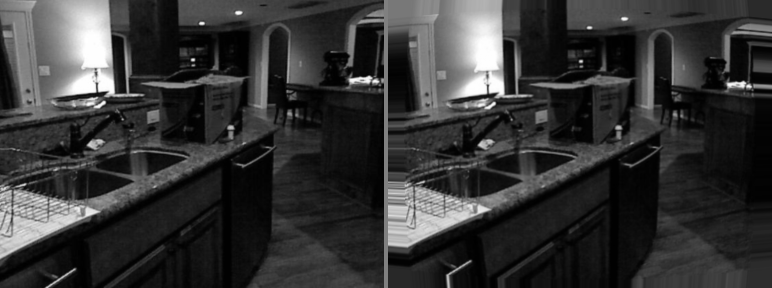
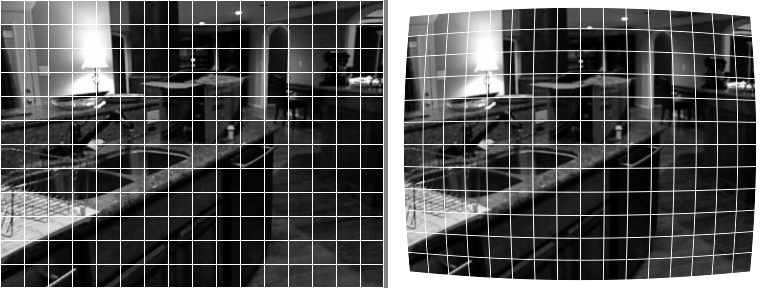
README: restructure into symmetric kernel sections + PYNQ-Z2 perf
Major rewrite to match the project's current state after the
PYNQ-Z2 retarget and rectify real-data verification work:

- Flatten the heading hierarchy into two symmetric H2 sections
  (## resize_kernel / ## rectify_kernel), each with the same eight
  H3 subsections: python golden model / files / interface /
  coordinate & math / schedule / testbench / build / run /
  verification & synthesis. Remove the standalone resize-only golden
  subsection under codebase overview and the nested "### hls hardware
  implementation" wrapper inside rectify.

- Refresh every xczu7ev / 5 ns / 200 MHz reference to
  xc7z020clg400-1 / 10 ns / 100 MHz with the real csynth numbers
  from the latest run: resize 2/37/4,852/8,699 (~0/16/4/16 %),
  slack -0.70 ns; rectify 12/13/7,508/9,623 (4/5/7/18 %), slack
  0.00 ns. Retain a historical-comparison sentence for the xczu7ev
  baseline so the percentage jump (1-2 % -> 16-18 %) is explained
  by the smaller part, not a design regression.

- Add inline frame-latency tables for both kernels at 1080p / 720p
  / 640x480 / 384x288 plus an end-to-end resize -> DDR -> rectify
  composite table. A one-liner at the top of the README summarises
  the headline numbers (55 fps @ 640x480, 8 fps @ 1080p).

- Add a "Reading the table" interpretation note for the resize
  resource table (compute-bound streaming float32 fingerprint) and
  a one-paragraph contrast note for the rectify table (BRAM up /
  DSP down because II=4 time-shares multipliers).
[…]

diff --git a/sw/prepare_real_rectify_data.py b/sw/prepare_real_rectify_data.py
@@ -101,6 +101,18 @@ def make_pair_png(in_img: np.ndarray, out_img: np.ndarray, path: Path) -> None:
     Image.fromarray(canvas, mode="L").save(path)
 
 
+def overlay_grid(img: np.ndarray, spacing: int = 24, value: int = 255) -> np.ndarray:
+    """Paint a thin regular grid onto a uint8 grayscale image (non-destructive)."""
+    out = img.copy()
+    for x in range(0, out.shape[1], spacing):
+        out[:, x] = value
+    out[:, out.shape[1] - 1] = value
+    for y in range(0, out.shape[0], spacing):
+        out[y, :] = value
+    out[out.shape[0] - 1, :] = value
+    return out
+
+
 def verify_loop_equals_vectorized(in_img, map_x, map_y, out_vec, name):
     """Sanity: rectify() loop and rectify_vectorized() agree byte-for-byte.
 
@@ -162,7 +174,15 @@ def main() -> None:
         out_img.tofile(gold_bin)
 
         pair_png = VIS_DIR / f"{name}_pair.png"
-        make_pair_png(in_img, out_img, pair_png)
+        if kind == "barrel":
+            # Overlay a regular grid on the input and re-run the same map so the
+            # output's bent grid lines make the radial distortion + edge clamp
+            # immediately obvious. .bin fixtures above stay un-gridded.
+            in_viz = overlay_grid(in_img, spacing=24, value=255)
+            out_viz = rectify_vectorized(in_viz, map_x, map_y)
+            make_pair_png(in_viz, out_viz, pair_png)
+        else:
+            make_pair_png(in_img, out_img, pair_png)
 
         manifest_lines.append(f"{name} {in_h} {in_w} {out_h} {out_w}")
         print(

diff --git a/README.md b/README.md
@@ -1,26 +1,48 @@
 # Real-Time ROS 2 Camera Preprocessing Accelerator
 
-Two Vitis HLS image-processing kernels for the AMD ROS 2 Perception Node pipeline: bilinear `resize_kernel` and map-based `rectify_kernel`. Architecture and motivation are in [plan.md](apply_hardware_design_project/plan.md); this README is the build / test / verification reference for both stages.
+This project include two Vitis HLS image-processing kernels for the AMD ROS 2 Perception Node pipeline: bilinear `resize_kernel` and map-based `rectify_kernel`. The motivation is to **offload simple but heavy image processing computation from PS to IP**, thus allow PS to perform real-time downstream perception tasks such as object detection, SLAM, and visual odometry without being bottlenecked by per-pixel preprocessing.
 
-## verification at a glance
+The overall architechture is shown in below figure, demostrating the process for our project
+1. Initialization: 
+    - Step 1: PS compute mapping for `rectify_kernel`, write to memory using AXI-Full
+    - Step 2: PS assign IPs register
+2. Process Loop: after initialize the system, IPs do following loop iteratively
+    - Step 3:  `resize_kernel` read raw data from camera using AXI-Stream and process them
+    - Step 4:  `resize_kernel` us AXI-Stream, write the processed image to DMA IP 
+    - Step 5: DMA write the data to DDR using AXI-Full
+    - Step 6: `rectify_kernel` read/process/write the image using AXI-Full
 
-All results from Vitis HLS 2023.2, target part `xczu7ev-ffvc1156-2-e` (Zynq UltraScale+ ZCU104-class) at a 5 ns clock target.
+![](.asserts/image.png)
 
-| stage | python tests | hls csim | csynth | hls cosim | resources (BRAM / DSP / FF / LUT) |
-|---|---|---|---|---|---|
-| `resize_kernel`  | 5/5 PASS | 5/5 PASS | done; slack `−0.00 ns` (marginal) | 10/10 PASS (5 synthetic + 5 NYU real-data) | 2 / 37 / 5,206 / 6,406 |
-| `rectify_kernel` | 4/4 PASS | 5/5 PASS | done; slack `0.00 ns` (clean)    | 5/5 PASS                                   | 12 / 13 / 7,542 / 8,903 |
+Our IP processed result is shown in this 2 examples
 
-Per-case verification tables, schedule analysis, and resource percentages of the target part are in the respective sections below. Raw HLS reports live under `hls/{resize,rectify}_hls/sol1/syn/report/` and `…/sim/report/`; the build trees are intentionally excluded from version control via `.gitignore` (`hls/*_hls/`) — the tables in this README are the canonical summary.
+Example — `nyu_upscale_640x480` (384×288 input on the left, 640×480 bilinear-upscaled output on the right):
 
-The resize top-module slack of `−0.00 ns` is HLS flagging a sub-rounding timing violation on the `EMIT_PIXEL` pipeline at the 5 ns target. The kernel synthesizes and co-simulates correctly; closing timing in Vivado place-and-route may require a slightly relaxed clock or LUT-area trade. The rectify kernel meets the same 5 ns target with no warning.
+![nyu_upscale_640x480 input | output](sw/vis/nyu_upscale_640x480_pair.png)
 
-## python environment
+Example — `nyu_rectify_barrel_mild` 
+
+![nyu_rectify_barrel_mild input | output (grid overlay)](sw/vis/nyu_rectify_barrel_mild_pair.png)
+
+On PYNQ-Z2 (`xc7z020` @ 100 MHz) the baseline runs at **≈55 fps for 640×480** (resize 6.1 ms + rectify 12.3 ms ≈ 18 ms / frame) and **≈8 fps for 1080p** (41.5 ms + 82.9 ms); per-resolution latency tables live under each kernel's verification & synthesis section below.
+
+## Codebase overview
+
+```shell
+tree -L 1
+.
+├── hls                          # Vitis HLS C++ kernels, testbenches, build scripts
+├── plan.md                      # architecture, motivation, and optimization roadmap
+├── README.md                    # this file (build / test / verification reference)
+├── requirements.txt             # Python dependencies (numpy, Pillow)
+└── sw                           # Python golden model + unit tests + fixture generators
+```
+
+### environments and dataset
 
 The Python side (golden model + real-data fixture generation) only needs `numpy` and `Pillow`, pinned in [apply_hardware_design_project/requirements.txt](apply_hardware_design_project/requirements.txt). Any Python ≥ 3.9 works; tested on 3.10.
 
-**Option A — venv + pip** (no conda needed):
-
+To install the environments: 
 ```
 python3 -m venv .venv
 source .venv/bin/activate            # bash/zsh
@@ -28,26 +50,16 @@ source .venv/bin/activate            # bash/zsh
 pip install -r apply_hardware_design_project/requirements.txt
 ```
 
-**Option B — conda / micromamba**:
-
-```
-micromamba create -n resize python=3.10 numpy pillow
-micromamba activate resize
-```
-
 After activation, all `python …` commands in this README use that interpreter.
 
-OpenCV is optional — [sw/test_resize.py](apply_hardware_design_project/sw/test_resize.py) skips the cv2 cross-check when it's not importable. Enable it by uncommenting the `opencv-python` line in `requirements.txt` (or `pip install opencv-python`).
+We use [nyu_depth_v2](https://cs.nyu.edu/~fergus/datasets/nyu_depth_v2.html) as test data — the 384×288 preprocessed RGB derivative of the NYU V2 labeled split (795 train / 654 test images), stored under [apply_hardware_design_project/archive/data/nyu_real/](apply_hardware_design_project/archive/data/nyu_real/).
 
-## dataset
+### data preprocessing and testcase build
 
-Real-image tests reuse the NYU indoor-scene PNGs already on disk under [apply_hardware_design_project/archive/data/nyu_real/](apply_hardware_design_project/archive/data/nyu_real/) — no download needed:
 
-- `train/images/` — 795 PNGs, **384×288 RGB** (primary source for the HLS resize testbench)
-- `test/images/` — 654 PNGs, 384×288 RGB
-- `train/masks_3class/`, `test/masks_3class/` — segmentation masks (unused by the resize work)
+Both kernels feed their HLS C-testbenches the same way: NYU PNG → `PIL.Image.convert("L")` 8-bit grayscale → headerless `.bin` files (one byte per pixel, row-major, no header). For each dataset, we use bit level assertation and visualization([apply_hardware_design_project/sw/vis/](apply_hardware_design_project/sw/vis/) to check it's correctness.
 
-For the resize stage we convert RGB → 8-bit grayscale with `PIL.Image.convert("L")` and feed the raw uint8 bytes into the HLS C-testbench via headerless `.bin` files. Five fixed cases are generated and checked bit-exactly against the Python golden:
+**Resize fixtures.** Five fixed cases generated by [sw/prepare_real_data.py](apply_hardware_design_project/sw/prepare_real_data.py), checked bit-exactly against the Python golden `resize_vectorized`:
 
 | case | input | output | coverage |
 |---|---|---|---|
@@ -57,35 +69,44 @@ For the resize stage we convert RGB → 8-bit grayscale with `PIL.Image.convert(
 | `nyu_identity`          | 384×288 | 384×288 | no-op smoke test |
 | `nyu_square_96`         | 384×288 | 96×96   | both axes stretched |
 
-Paired side-by-side visualizations land under [apply_hardware_design_project/sw/vis/](apply_hardware_design_project/sw/vis/) for eyeball checks (border artifacts, obvious aliasing).
+Per-case files: `<case>_in.bin` (input grayscale bytes), `<case>_gold.bin` (Python golden output), plus a line in `cases.txt` that the testbench reads to drive the run. Pair PNGs land in `sw/vis/<case>_pair.png` (input | output, eyeball check for border artifacts and aliasing).
 
 
-## python golden model
 
-[apply_hardware_design_project/sw/resize.py](apply_hardware_design_project/sw/resize.py) is the reference resize with bilinear interpolation. It follows the `u = sₓ·x, v = sᵧ·y` formulation in [apply_hardware_design_project/plan.md](apply_hardware_design_project/plan.md) (no half-pixel centering), and every arithmetic step runs in **float32** so the model is bit-exact against the HLS kernel and its C-sim testbench.
+**Rectify fixtures.** Five real-image cases generated by [sw/prepare_real_rectify_data.py](apply_hardware_design_project/sw/prepare_real_rectify_data.py), each with its own remap table, checked bit-exactly against `rectify_vectorized`:
 
-Three entry points:
+| case | input | output | map | coverage |
+|---|---|---|---|---|
+| `nyu_rectify_identity`     | 384×288 | 384×288 | `(x, y)`                                  | rectify ≡ copy (smoke) |
+| `nyu_rectify_shift_frac`   | 384×288 | 384×288 | `(x+0.25, y+0.50)`                        | fractional shift / bilinear interp |
+| `nyu_rectify_crop_192x144` | 384×288 | 192×144 | `(x+96, y+72)`                            | integer-offset sub-window |
+| `nyu_rectify_zoom_2x`      | 384×288 | 384×288 | half-pixel-per-output centre-zoom         | non-trivial scale map |
+| `nyu_rectify_barrel_mild`  | 384×288 | 384×288 | `c + (1 + k·r²)·(x − c)`, `k = 0.10`      | radial distortion + edge clamp |
+
+Per-case files: `<case>_in.bin` (uint8 input), `<case>_map_x.bin` + `<case>_map_y.bin` (float32 remap tables, row-major), `<case>_gold.bin` (uint8 output), plus a line in `rectify_cases.txt`. The barrel case is the canonical "lens-distortion correction" use-case for a robotics rectify pipeline; pair PNGs in `sw/vis/nyu_rectify_*_pair.png` show the warped output against the original frame.
+
+
+
+> **Cosim caveat (rectify only):** the real-data tier runs in C-sim only. Vitis HLS's `m_axi` pointer wrapper segfaults on the 384×288 buffers during C/RTL co-simulation, so `run_rectify_hls.tcl` sets `RECTIFY_TB_SKIP_REAL_DATA=1` before `cosim_design` and the cosim phase runs the 5 synthetic cases only. C-sim already validates Python-golden ↔ HLS-top-level math bit-exact across the 5 NYU cases; cosim's job is RTL ↔ C equivalence, which the synthetic cases cover.
+
+
+## resize_kernel
+
+`resize_kernel` performs bilinear downscale or upscale on a streaming image. The HLS C++ kernel ([hls/resize.cpp](apply_hardware_design_project/hls/resize.cpp)) and the Python golden ([sw/resize.py](apply_hardware_design_project/sw/resize.py)) share the same `u = sₓ·x, v = sᵧ·y` formulation (no half-pixel centering, see [plan.md](apply_hardware_design_project/plan.md)) in **float32**, so the C-testbench `memcmp`s outputs bit-exactly against the Python golden — no tolerance windows.
+
+### python golden model
+
+[sw/resize.py](apply_hardware_design_project/sw/resize.py) is the reference implementation, every arithmetic step in float32. Three entry points:
 
 - `bilinear_sample(img, u, v)` — single-sample helper, border-clamped to `[0, W−1] × [0, H−1]`.
 - `resize(img, out_h, out_w)` — plain double loop; maps 1:1 to the HLS schedule and is the easiest path for line-by-line comparison against an HLS C-sim trace.
-- `resize_vectorized(img, out_h, out_w)` — same math, numpy-vectorized; used to generate real-data goldens.
+- `resize_vectorized(img, out_h, out_w)` — same math, numpy-vectorized; used by `prepare_real_data.py` to generate the real-data goldens documented in [data preprocessing](#data-preprocessing-and-testcase-build).
 
-Run the unit tests (loop vs vectorized bit-exact, identity, shapes, hand-computed 2×2, OpenCV if installed):
+Run the unit tests (loop vs vectorized bit-exact, identity, shapes, hand-computed 2×2, OpenCV cross-check if installed):
 
 ```
 python apply_hardware_design_project/sw/test_resize.py
 ```
-
-Generate the real-image test fixtures for the HLS testbench (writes `apply_hardware_design_project/hls/testdata/*.bin` + `cases.txt` and the visualization PNGs under `apply_hardware_design_project/sw/vis/`):
-
-```
-python apply_hardware_design_project/sw/prepare_real_data.py
-```
-
-
-## hls hardware implementation
-
-Vitis HLS C++ kernel for the resize stage lives under [apply_hardware_design_project/hls/](apply_hardware_design_project/hls/). It implements the same `u = sₓ·x, v = sᵧ·y` math as the Python golden in float32, so the C-testbench can `memcmp` the outputs bit-exactly — no tolerance windows.
 
 ### files
 
@@ -169,7 +190,7 @@ vitis_hls -f run_hls.tcl csynth     # C synthesis only
 vitis_hls -f run_hls.tcl cosim      # RTL/C co-simulation (needs csynth first)
 ```
 
-Target in the script is `xczu7ev-ffvc1156-2-e` (Zynq UltraScale+ ZCU104-class) at a **5 ns** clock — adjust `PART` / `PERIOD` in [run_hls.tcl](apply_hardware_design_project/hls/run_hls.tcl) for a different board. The project tree is written to `hls/resize_hls/sol1/`; synthesis and cosim reports land under `sol1/syn/report/` and `sol1/sim/report/`.
+Target in the script is `xc7z020clg400-1` (Zynq-7020 on PYNQ-Z2) at a **10 ns** clock — adjust `PART` / `PERIOD` in [run_hls.tcl](apply_hardware_design_project/hls/run_hls.tcl) for a different board. The project tree is written to `hls/resize_hls/sol1/`; synthesis and cosim reports land under `sol1/syn/report/` and `sol1/sim/report/`.
 
 Before running cosim with real images, regenerate the fixtures once:
 
@@ -177,36 +198,48 @@ Before running cosim with real images, regenerate the fixtures once:
 python apply_hardware_design_project/sw/prepare_real_data.py
 ```
 
-### verification & synthesis (latest run)
+### verification & synthesis
 
 | phase | result |
 |---|---|
 | Python golden tests ([sw/test_resize.py](apply_hardware_design_project/sw/test_resize.py)) | 5/5 PASS (loop ≡ vectorized bit-exact, identity, shapes, hand-computed 2×2, OpenCV cross-check skipped when `cv2` absent) |
 | HLS C-simulation (synthetic) | `downscale` / `upscale` / `identity` / `non-integer` / `wide` — 5/5 PASS |
 | HLS C-simulation (NYU real-data) | `nyu_downscale_320x240` / `nyu_half` / `nyu_upscale_640x480` / `nyu_identity` / `nyu_square_96` — 5/5 PASS, byte-exact against `_gold.bin` from `resize_vectorized` |
-| HLS C-synthesis | completes; top-module slack reported as `−0.00 ns` at 5 ns target (marginal, see below) |
+| HLS C-synthesis | completes; top-module slack reported as `−0.70 ns` at 10 ns target (EMIT_PIXEL pipeline; closes ≈93 MHz) |
 | HLS C/RTL co-simulation | 10/10 PASS (both tiers); max `hls::stream` depth = 307,200 (= 640×480, largest real-data case) |
 
-Resource estimates from `hls/resize_hls/sol1/syn/report/csynth.rpt` (target `xczu7ev-ffvc1156-2-e`):
+Resource estimates from `hls/resize_hls/sol1/syn/report/csynth.rpt` (target `xc7z020clg400-1` @ 10 ns):
 
 | resource | usage | % of part |
 |---|---|---|
-| BRAM | 2 | ~0% |
-| DSP  | 37 | 2% |
-| FF   | 5,206 | 1% |
-| LUT  | 6,406 | 2% |
+| BRAM | 2     | ~0% |
+| DSP  | 37    | 16% |
+| FF   | 4,852 | 4%  |
+| LUT  | 8,699 | 16% |
 
-Schedule numbers from the same report: `LOAD_ROW` inner loop achieves **II = 1** (1922 cycles for 1920 input pixels); `EMIT_PIXEL` inner loop achieves **II = 1** with 79-cycle iteration latency (1997 cycles for 1920 output pixels). The conservative top-module latency in `csynth.rpt` (≈ 2.38 G cycles) is HLS's static worst-case bound for a full 1920×1080 pass — it assumes the outer `EMIT` re-traverses all output rows every input row, which the algorithm does not actually do; cosim confirms the realised throughput tracks `in_h × in_w + out_h × out_w` pixels at II=1.
+**Reading the table.** The shape — **DSP and LUT both ≈ 16 %, BRAM near-zero, FF moderate** — is the classic fingerprint of a **compute-bound streaming float32 pipeline**: every output pixel runs ~10 parallel float multiplies (DSP), the float adder / exponent / clamp glue burns LUT, FF banks the 63-stage `EMIT_PIXEL` pipeline, and the only on-chip state is the 2-row line buffer (BRAM, frame-size-independent). DSP and LUT moving together is the float32 tell — going fixed-point would roughly halve both. Resize stays under 20 % on every metric, so ≥ 80 % of `xc7z020` is still free for `rectify_kernel`, DMA, AXI interconnect, and the ROS-side glue.
 
-## rectify
+**Frame latency / throughput on `xc7z020` @ 100 MHz** (steady-state II=1; cycles ≈ `in_h·in_w + out_h·out_w` because both `LOAD_ROW` and `EMIT_PIXEL` run at 1 pixel/cycle):
 
-The rectify stage runs after resize and remaps every output pixel `(x, y)` from a source coordinate `(u, v) = (map_x[y, x], map_y[y, x])`. It reuses the resize stage's bilinear sampler, BORDER_REPLICATE clamp, and uint8 truncation, so the Python golden and the HLS kernel share one arithmetic convention end-to-end and the testbench can `memcmp` outputs with zero tolerance.
+| in → out                  | cycles  | wall      | throughput |
+|---|---|---|---|
+| 1920×1080 → 1920×1080     | 4.15 M  | 41.5 ms   | 24 fps     |
+| 1280×720  → 1280×720      | 1.84 M  | 18.4 ms   | 54 fps     |
+| 640×480   → 640×480       | 614 K   | 6.1 ms    | 163 fps    |
+| 384×288   → 384×288       | 221 K   | 2.2 ms    | 450 fps    |
+
+First-pixel-out latency is short (≈ 2 input rows + the 63-cycle `EMIT_PIXEL` iteration latency ≈ 20 µs at 1080p), so downstream consumers see the first pixel long before the frame finishes — useful when chaining into a streaming rectify variant. For asymmetric shapes (e.g. 1080p → 96×96) the input-streaming term `in_h·in_w` dominates and the output is essentially free.
+
+## rectify_kernel
+
+`rectify_kernel` remaps every output pixel `(x, y)` from a source coordinate `(u, v) = (map_x[y, x], map_y[y, x])` supplied by the PS. It reuses the resize stage's bilinear sampler, BORDER_REPLICATE clamp, and uint8 truncation, so the Python golden ([sw/rectify.py](apply_hardware_design_project/sw/rectify.py)) and the HLS kernel ([hls/rectify.cpp](apply_hardware_design_project/hls/rectify.cpp)) share one arithmetic convention end-to-end — the in-file `golden_sample()` in the testbench is a line-by-line port and `memcmp` succeeds with zero tolerance.
 
 ### python golden model
 
-[apply_hardware_design_project/sw/rectify.py](apply_hardware_design_project/sw/rectify.py) reuses `bilinear_sample()` from `resize.py`, so border-clamp and float32 accumulation are inherited unchanged. Three entry points:
+[sw/rectify.py](apply_hardware_design_project/sw/rectify.py) reuses `bilinear_sample()` from `resize.py`, so border-clamp and float32 accumulation are inherited unchanged. Four entry points:
 
 - `rectify(img_in, map_x, map_y)` — plain double loop over output pixels; maps 1:1 to the HLS schedule. Returns `img_in.dtype` after `np.clip(0, 255).astype(...)` (truncation, not rounding — matches `(uint8_t)(int)acc` in the kernel).
+- `rectify_vectorized(img_in, map_x, map_y)` — same math, numpy-vectorized; used by `prepare_real_rectify_data.py` to generate the real-data goldens documented in [data preprocessing](#data-preprocessing-and-testcase-build).
 - `identity_maps(h, w)` — returns `(map_x, map_y)` with `map_x[y, x] = x` and `map_y[y, x] = y`. The rectified output equals the input bit-for-bit.
 - `shifted_maps(h, w, dx, dy)` — identity map plus a constant `(dx, dy)` shift. Drives the fractional-pixel tests.
 
@@ -216,26 +249,14 @@ Run the unit tests (identity copy / fractional shape & dtype / border-replicate 
 python apply_hardware_design_project/sw/test_rectify.py
 ```
 
-Regenerate the binary fixtures under `hls/testdata/rectify_*.bin` (an 8×8 `np.arange` ramp sampled with `(dx=0.25, dy=0.5)`):
-
-```
-python apply_hardware_design_project/sw/gen_rectify_testdata.py
-```
-
-These fixtures are a Python-side cross-check artifact — feeding the committed `rectify_input.bin` + `rectify_map_{x,y}.bin` through `rectify()` reproduces `rectify_expected.bin` byte-for-byte. They are **not** consumed by the HLS C-testbench today; the testbench is self-contained (see below).
-
-### hls hardware implementation
-
-Vitis HLS C++ kernel for the rectify stage lives in [hls/rectify.cpp](apply_hardware_design_project/hls/rectify.cpp). Same float32 math, same uint8 truncation, same BORDER_REPLICATE clamp as the Python golden — the in-file `golden_sample()` in the testbench is a line-by-line port.
-
-#### files
+### files
 
 - [hls/rectify.h](apply_hardware_design_project/hls/rectify.h) — top-level declarations, `pixel_t = ap_uint<8>`, `dim_t = ap_uint<13>`, compile-time bounds `RECTIFY_MAX_IN_W/H`, `RECTIFY_MAX_OUT_W/H` (default 1920×1080).
 - [hls/rectify.cpp](apply_hardware_design_project/hls/rectify.cpp) — `rectify_kernel(...)`, the synthesizable top.
 - [hls/rectify_tb.cpp](apply_hardware_design_project/hls/rectify_tb.cpp) — self-contained C-testbench: 5 deterministic cases, no external fixtures.
 - [hls/run_rectify_hls.tcl](apply_hardware_design_project/hls/run_rectify_hls.tcl) — Vitis HLS build/flow script (csim / csynth / cosim).
 
-#### interface
+### interface
 
 ```
 void rectify_kernel(
@@ -251,7 +272,7 @@ void rectify_kernel(
 - **Control plane**: all dims plus 64-bit base pointers exposed through one `s_axilite` `ctrl` bundle alongside the standard `return` register (`ap_start` / `ap_done` / `ap_idle` / `ap_ready` + `interrupt`).
 - Unlike `resize_kernel`, this is a baseline memory-mapped design: no on-chip line buffer, every input tap goes back to DDR through `gmem_img`. The optimized line-buffered + output-queue path with DDR slow-path fallback is described in [plan.md](apply_hardware_design_project/plan.md) and is **not** implemented yet.
 
-#### coordinate & math (matches the golden exactly)
+### coordinate & math (matches the golden exactly)
 
 For every output pixel `(x, y)`:
 
@@ -266,7 +287,7 @@ out = clamp(Σ w_ij · p_ij, 0, 255) truncated to uint8
 
 The clamp-on-address trick handles arbitrary map values (BORDER_REPLICATE) without ever issuing an out-of-range pointer read. Float accumulation order matches the Python golden, so `memcmp` against the testbench gold succeeds bit-exactly with no tolerance window.
 
-#### schedule — m_axi-per-pixel baseline, II=4
+### schedule — m_axi-per-pixel baseline, II=4
 
 The kernel is two nested loops with `PIPELINE II=1` requested on the inner body ([rectify.cpp:84](apply_hardware_design_project/hls/rectify.cpp#L84)):
 
@@ -282,11 +303,13 @@ OUT_X:    for x in 0..out_w−1:                       # PIPELINE II=1 requested
 
 Each iteration issues two `float` map reads, four 8-bit image taps, one 8-bit output write, plus the bilinear arithmetic. HLS settles on **II = 4 cycles/pixel** in `csynth.rpt` — the inner loop is bottlenecked by memory dependencies, not by the float chain. No line buffer is instantiated.
 
-For a full 1920×1080 frame the report measures **8,294,489 cycles ≈ 41 ms @ 200 MHz**. That fits a ~24 fps budget but not 60 fps. The route to II=1 is the line-buffered + output-queue variant described in `plan.md` (deferred).
+For a full 1920×1080 frame the report measures **8,294,471 cycles ≈ 82.9 ms @ 100 MHz** on `xc7z020`. That sustains ~12 fps for full HD; smaller frame sizes scale linearly (e.g. ~14 ms / 70 fps for 640×480). The route to II=1 is the line-buffered + output-queue variant described in `plan.md` (deferred).
 
-#### testbench
+### testbench
 
-[hls/rectify_tb.cpp](apply_hardware_design_project/hls/rectify_tb.cpp) drives 5 deterministic cases and fails on any byte mismatch:
+[hls/rectify_tb.cpp](apply_hardware_design_project/hls/rectify_tb.cpp) runs **two tiers** and fails on any byte mismatch:
+
+1. **Synthetic cases** — 5 deterministic shape regimes built in-file, golden produced by the in-file `golden_sample()` C++ port of `sw/rectify.py`:
 
 | case | in → out | map style | coverage |
 |---|---|---|---|
@@ -296,9 +319,11 @@ For a full 1920×1080 frame the report measures **8,294,489 cycles ≈ 41 ms @ 2
 | `border_clamp`  | 32×24 → 32×24 | rotating `−5` / `in_w+8` / `in_h+9` / both-OOB | replicate-clamp stress |
 | `scale_map`     | 23×17 → 29×11 | half-pixel-centered scale | non-integer in & out dims |
 
-Failures print `errors=N first=I hw=… gold=… max_abs=…` and the driver returns non-zero. The 8×8 `.bin` fixtures under [hls/testdata/](apply_hardware_design_project/hls/testdata/) are **not** wired into this testbench — they are a Python-side cross-check only.
+2. **Real-data cases** — 5 NYU 384×288 images driven by the `.bin` fixtures produced by [sw/prepare_real_rectify_data.py](apply_hardware_design_project/sw/prepare_real_rectify_data.py) (identity / fractional shift / crop / centre-zoom / mild barrel — see the [data preprocessing](#data-preprocessing-and-testcase-build) section). The tb `memcmp`s the kernel output against `_gold.bin` from `rectify_vectorized`. Gated by `RECTIFY_TB_SKIP_REAL_DATA` — `run_rectify_hls.tcl` sets this for the cosim phase only, so the real-data tier runs in csim but not cosim (see cosim caveat).
 
-#### build / run
+Failures print `errors=N first=I hw=… gold=… max_abs=…` and the driver returns non-zero.
+
+### build / run
 
 From [apply_hardware_design_project/hls/](apply_hardware_design_project/hls/):
 
@@ -309,13 +334,39 @@ vitis_hls -f run_rectify_hls.tcl csynth     # C synthesis only
 vitis_hls -f run_rectify_hls.tcl cosim      # RTL/C co-simulation (needs csynth first)
 ```
 
-Target part and clock match the resize project: `xczu7ev-ffvc1156-2-e` @ **5 ns**, configurable via `PART` / `PERIOD` in [run_rectify_hls.tcl](apply_hardware_design_project/hls/run_rectify_hls.tcl). The build tree lands under `hls/rectify_hls/sol1/`; synthesis reports under `sol1/syn/report/`, cosim logs under `sol1/sim/report/`.
+Target part and clock match the resize project: `xc7z020clg400-1` @ **10 ns** (PYNQ-Z2), configurable via `PART` / `PERIOD` in [run_rectify_hls.tcl](apply_hardware_design_project/hls/run_rectify_hls.tcl). The build tree lands under `hls/rectify_hls/sol1/`; synthesis reports under `sol1/syn/report/`, cosim logs under `sol1/sim/report/`.
 
-Latest verified state (xczu7ev @ 5 ns): csim 5/5 PASS, csynth completes with zero timing-slack violations, cosim 5/5 PASS. Resource estimates from `csynth.rpt`:
+### verification & synthesis
+
+Latest verified state (`xc7z020` @ 10 ns): csim **10/10 PASS** (5 synth + 5 NYU real-data), csynth completes with **slack 0.00 ns** (clean), cosim 5/5 PASS (synth only — the real-data tier is skipped via `RECTIFY_TB_SKIP_REAL_DATA`, see the [data preprocessing](#data-preprocessing-and-testcase-build) cosim caveat). Resource estimates from `csynth.rpt`:
 
 | resource | usage | % of part |
 |---|---|---|
-| BRAM | 12 | 1% |
-| DSP  | 13 | ~0% |
-| FF   | 7,542 | 1% |
-| LUT  | 8,903 | 3% |
+| BRAM | 12    | 4%  |
+| DSP  | 13    | 5%  |
+| FF   | 7,508 | 7%  |
+| LUT  | 9,623 | 18% |
+
+The fingerprint **flips versus resize**: BRAM ↑ (line / burst buffers for the 4 `m_axi` ports), DSP ↓ (II = 4 lets HLS time-share multipliers across 4 cycles instead of laying them out in parallel), LUT comparable (float32 glue dominates either way). Same bilinear math, opposite hardware shape — that's the streaming-vs-memory-mapped architecture choice showing up in numbers.
+
+**Frame latency / throughput on `xc7z020` @ 100 MHz** (II=4, memory-bound; cycles = `4 · out_h · out_w` — fully output-bound):
+
+| in → out                  | cycles  | wall      | throughput |
+|---|---|---|---|
+| 1920×1080 → 1920×1080     | 8.29 M  | 82.9 ms   | 12 fps     |
+| 1280×720  → 1280×720      | 3.69 M  | 36.9 ms   | 27 fps     |
+| 640×480   → 640×480       | 1.23 M  | 12.3 ms   | 81 fps     |
+| 384×288   → 384×288       | 442 K   | 4.4 ms    | 226 fps    |
+
+The line-buffered + output-queue optimisation in [plan.md](apply_hardware_design_project/plan.md) drops II to 1 — projected 1080p wall-time would fall from 83 ms to ≈ 21 ms (≈ 48 fps, **~4× speed-up**), and 720p would clear 100 fps.
+
+**End-to-end (resize → DDR → rectify, sequential baseline)** — rectify reads its image from DDR, so the two stages can't pipeline through AXI-Stream; resize must fully drain to DDR before rectify starts:
+
+| frame size  | resize  | rectify | total    | composite throughput |
+|---|---|---|---|---|
+| 1920×1080   | 41.5 ms | 82.9 ms | ≈ 124 ms | ≈ 8 fps   |
+| 1280×720    | 18.4 ms | 36.9 ms | ≈ 55 ms  | ≈ 18 fps  |
+| 640×480     | 6.1 ms  | 12.3 ms | ≈ 18 ms  | ≈ 55 fps  |
+| 384×288     | 2.2 ms  | 4.4 ms  | ≈ 6.6 ms | ≈ 150 fps |
+
+Rectify is the bottleneck across the board. AMD's ROS 2 Perception Node typically runs at 640×480 or 720p where the baseline already clears 18–55 fps — landing the optimised rectify variant takes the 640×480 budget under 8 ms (>120 fps), comfortably real-time for downstream detection / SLAM.
